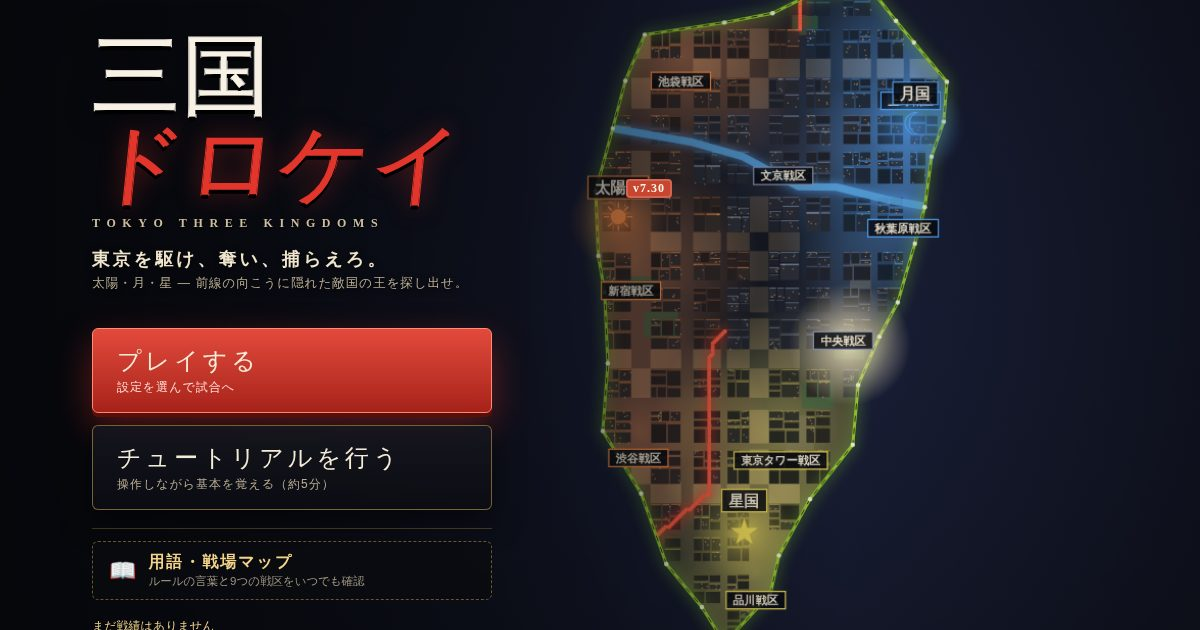
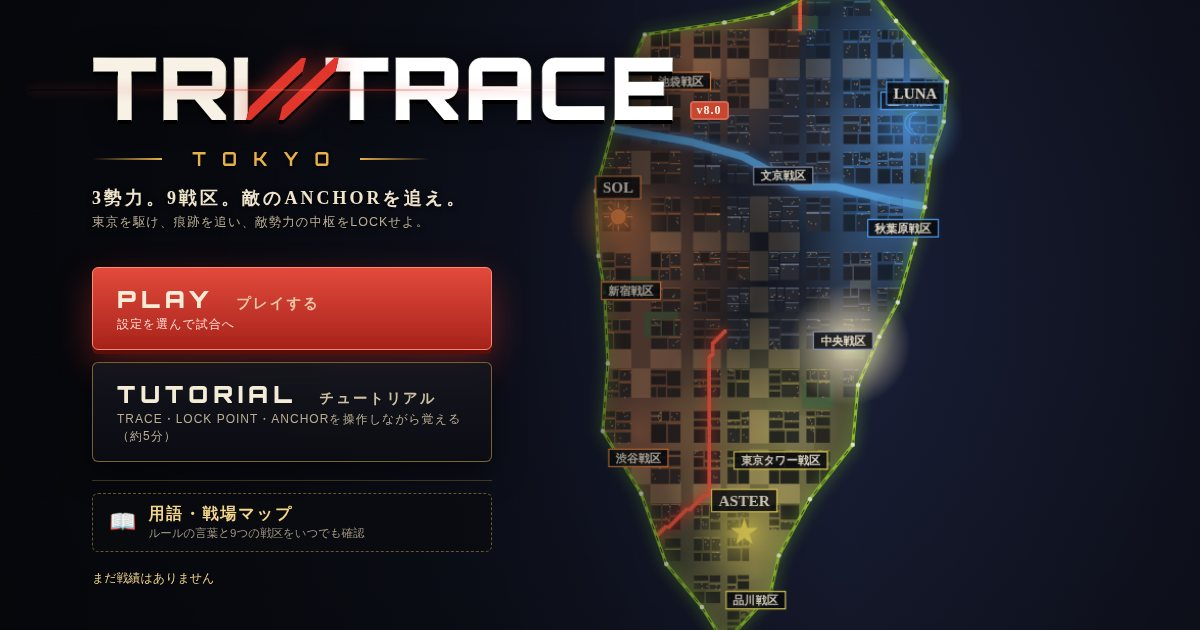
v8.0: share image, roster/result/event-card layout fixes
Claude-Session: https://claude.ai/code/session_019LrbAEapUAkaVTiktpcMTM

diff --git a/src/style.css b/src/style.css
@@ -381,7 +381,7 @@ details#hint[open] summary::before{content:'▾ ';}
 .toast.out{opacity:0;transform:translateY(-6px)}
 @keyframes toastIn{from{opacity:0;transform:translateY(-8px)}}
 #roster{display:flex;flex-direction:column;gap:4px}
-.rs-row{--nc:#999;display:grid;grid-template-columns:3.2em 1fr auto;align-items:center;gap:6px;font-size:11.5px;padding:3px 5px;border-radius:3px;background:rgba(255,255,255,.03);border-left:3px solid var(--nc)}
+.rs-row{--nc:#999;display:grid;grid-template-columns:4.8em 1fr auto;align-items:center;gap:6px;font-size:11.5px;padding:3px 5px;border-radius:3px;background:rgba(255,255,255,.03);border-left:3px solid var(--nc)}
 .rs-row.mine{background:color-mix(in srgb,var(--nc) 14%,transparent)}
 .rs-row.out{opacity:.45}
 .rs-name{font-weight:700;color:color-mix(in srgb,var(--nc) 60%,#fff)}
@@ -728,4 +728,6 @@ body.tutorial #eventCard{top:auto;bottom:40%}
 .tb-stat i{width:auto!important;min-width:17px;padding:0 4px;font-family:'Orbitron',var(--ui);font-size:9px;letter-spacing:.5px}
 #mCap{line-height:1.05}
 #mCap small{white-space:nowrap;font-size:8.5px}
-#ovTitle .ov-kicker{display:block;font-family:'Orbitron',var(--ui);font-size:.34em;letter-spacing:.4em;color:var(--ovc,#e8b04a);margin-top:4px}
+#ovTitle .ov-kicker{display:block;font-family:'Orbitron',var(--ui);font-size:max(13px,.34em);letter-spacing:.4em;color:var(--ovc,#e8b04a);margin-top:4px}
+.rs-name{white-space:nowrap}
+#eventCard .ec-sub{text-wrap:balance}
